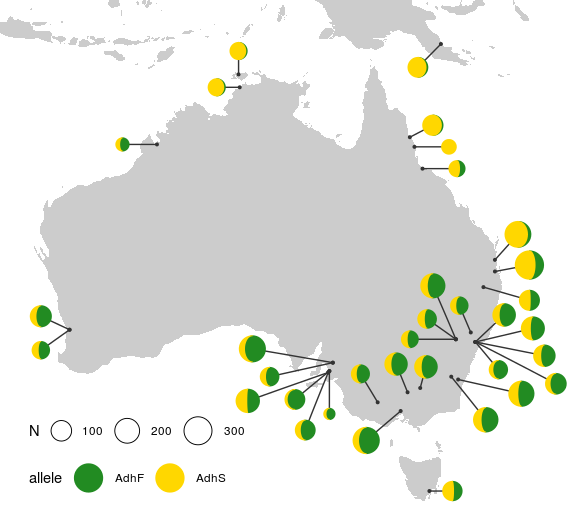
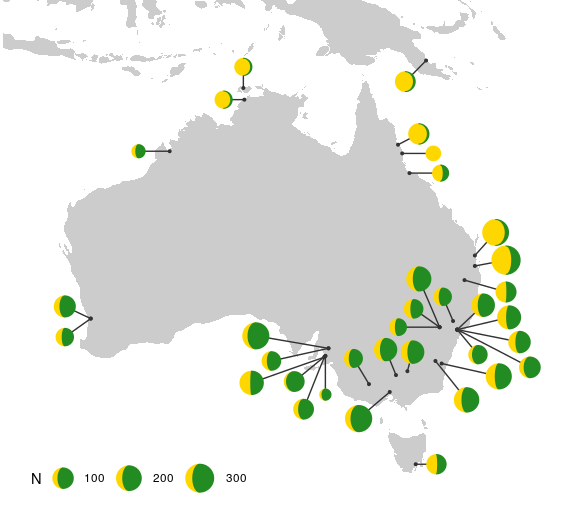
Re-generated README.md to match updated vignette

diff --git a/README.md b/README.md
@@ -6,8 +6,14 @@ Moon charts, a pie chart alternative for two groups in ggplot2
 
 ## Installation
 
-`gggibbous` is not yet on CRAN, so the easiest way to install it is with
-the `devtools` package:
+`gggibbous` can be installed from CRAN:
+
+``` r
+install.packages("gggibbous")
+```
+
+The development version can be installed from GitHub with the `devtools`
+package:
 
 ``` r
 devtools::install_github("mnbram/gggibbous")
@@ -22,12 +28,20 @@ the areas represent proportions of a whole, but in a moon chart the
 areas are drawn as crescent or gibbous portions of a circle—like the
 phases of the moon.
 
-![](man/figures/README-unnamed-chunk-4-1.png)<!-- -->
+![](man/figures/README-unnamed-chunk-5-1.png)<!-- -->
 
 The motivation behind using a moon chart instead of a pie chart is
 primarily one of aesthetic choice. Note also that because the sections
 of a moon chart are swept from one or the other side of the circle, they
 are generally only appropriate for depicting one or two groups.
+
+Moon charts are similar to Kosara’s (2019)\[1\] “circular slice” chart.
+In studying subjects’ perception of percentages in different chart
+types, the “circular slice” performed similarly to pie charts. Moon
+charts differ from the “circular slice” in that the latter slides a
+second disc of the same size over a base circle, more like a lunar
+eclipse than the sphases of the moon. Both depend on area as the
+perceptual cue, however.
 
 ## `gggibbous` and its usage
 
@@ -52,17 +66,16 @@ ggplot(data.frame(x = 1:5, y = 1, size = 2^(0:4)), aes(x, y, size = size)) +
   scale_size(range = c(5, 10))
 ```
 
-![](man/figures/README-unnamed-chunk-5-1.png)<!-- -->
+![](man/figures/README-unnamed-chunk-6-1.png)<!-- -->
 
 Two new aesthetics are also important in `geom_moon`: `ratio` and
 `right`.
 
 ### The `ratio` aesthetic
 
-`ratio` controls the proportion of the moon to be drawn. It should be
+`ratio` controls the proportion of the moon to be drawn. It must be
 between 0 (a “new moon” where nothing is actually drawn) and 1 (a “full
-moon”, i.e. a
-circle).
+moon”, i.e. a circle).
 
 ``` r
 ggplot(data.frame(x = 1:5, y = 0, ratio = 0:4 * 0.25), aes(x = x, y = y)) +
@@ -72,7 +85,7 @@ ggplot(data.frame(x = 1:5, y = 0, ratio = 0:4 * 0.25), aes(x = x, y = y)) +
   theme_void()
 ```
 
-![](man/figures/README-unnamed-chunk-6-1.png)<!-- -->
+![](man/figures/README-unnamed-chunk-7-1.png)<!-- -->
 
 ### The `right` aesthetic
 
@@ -97,15 +110,15 @@ ggplot(tidymoons) +
   lims(x = c(0.5, 3.5), y = c(0.5, 3.5))
 ```
 
-![](man/figures/README-unnamed-chunk-7-1.png)<!-- -->
+![](man/figures/README-unnamed-chunk-8-1.png)<!-- -->
 
 ## Legend key glyphs
 
 `gggibbous` includes three key glyphs for different types of legends:
 `draw_key_moon`, `draw_key_moon_left`, and `draw_key_full_moon`
 
-**`draw_key_moon`**—the default in `geom_moon`—draws a gibbous moon (see
-above).
+**`draw_key_moon`**—the default in `geom_moon`—draws a gibbous moon with
+`right = TRUE` (see above).
 
 **`draw_key_moon_left`** draws a crescent moon from the left that is
 complementary to the gibbous moon in `draw_key_moon`, which is useful
@@ -122,7 +135,7 @@ ggplot(tidymoons, aes(x, y, ratio = ratio, right = right, size = 2^x)) +
   scale_size("size", range = c(5, 10), breaks = 2^(1:3))
 ```
 
-![](man/figures/README-unnamed-chunk-8-1.png)<!-- -->
+![](man/figures/README-unnamed-chunk-9-1.png)<!-- -->
 
 **`draw_key_full_moon`** draws a circle. It is similar to the “point”
 key glyph, but the size is calculated slightly differently, so it is
@@ -141,7 +154,7 @@ ggplot(tidymoons) +
   theme(legend.box = "horizontal")
 ```
 
-![](man/figures/README-unnamed-chunk-9-1.png)<!-- -->
+![](man/figures/README-unnamed-chunk-10-1.png)<!-- -->
 
 ## Worked examples
 
@@ -154,7 +167,7 @@ bar charts are more difficult. This is a perfect opportunity to try out
 moon charts\!
 
 Pie chart maps are popular in population genetics, so let’s look at an
-example from that field. The `dmeladh` data\[1\] contains frequencies of
+example from that field. The `dmeladh` data\[2\] contains frequencies of
 two variants of the *Adh* gene in Australian and Papua New Guinean fruit
 fly populations. Many of these populations are close together, so we
 have to deal with overplotting, which we do manually below.
@@ -198,7 +211,7 @@ moonmap +
   )
 ```
 
-![](man/figures/README-unnamed-chunk-10-1.png)<!-- -->
+![](man/figures/README-unnamed-chunk-11-1.png)<!-- -->
 
 If we want to label the alleles in the legend explicitly, then we need
 to map them to a group, which requires that we rearrange the data into a
@@ -226,7 +239,7 @@ moonmap +
   scale_color_manual(values = c("forestgreen", "gold"))
 ```
 
-![](man/figures/README-unnamed-chunk-11-1.png)<!-- -->
+![](man/figures/README-unnamed-chunk-12-1.png)<!-- -->
 
 ### Lunar data
 
@@ -252,7 +265,7 @@ ggplot(lunardist, aes(date, distance)) +
   )
 ```
 
-![](man/figures/README-unnamed-chunk-12-1.png)<!-- -->
+![](man/figures/README-unnamed-chunk-13-1.png)<!-- -->
 
 ### Harvey balls
 
@@ -308,14 +321,20 @@ ggplot(tidyrest, aes(0, 0)) +
   theme_minimal() +
   theme(
     panel.grid = element_blank(),
-    strip.text.y = element_text(angle = 180, hjust = 1),
+    strip.text.y.left = element_text(angle = 0, hjust = 1),
     axis.text = element_blank(),
     axis.title = element_blank()
   )
 ```
 
-![](man/figures/README-unnamed-chunk-15-1.png)<!-- -->
+![](man/figures/README-unnamed-chunk-16-1.png)<!-- -->
 
-1.  Oakeshott, J.G., et al. 1982. Alcohol dehydrogenase and
+## References
+
+1.   Kosara, R. 2019. Circular Part-to-Whole Charts Using the Area
+    Visual Cue. EuroVis 2019 - Short Papers.
+    <https://doi.org/10.2312/evs.20191163>
+
+2.  Oakeshott, J.G., et al. 1982. Alcohol dehydrogenase and
     glycerol-3-phosphate dehydrogenase clines in *Drosophila
     melanogaster* on different continents. Evolution, 36(1): 86-96.
